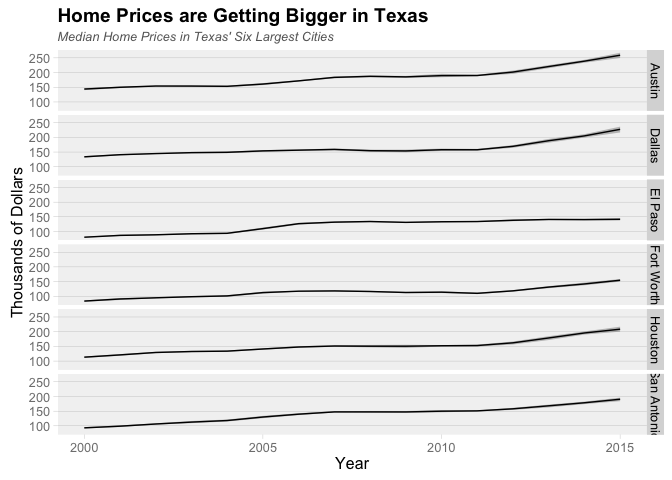
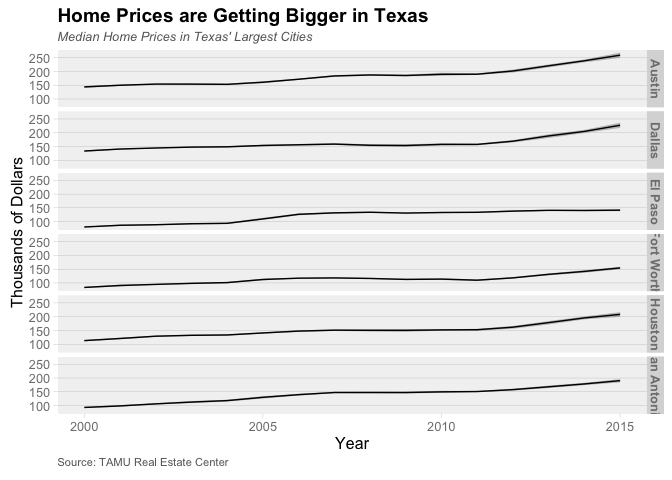
Removed theme_bdc_simplefacets

diff --git a/README.md b/README.md
@@ -44,7 +44,8 @@ black text on a grey background.
 ![](figure/theme_bdc_grey-1.png)
 
 Subtle grid lines can be added to the panels with the `grid.x` and
-`grid.y` parameters.
+`grid.y` parameters. These also affect minor grid lines, which can
+further be controlled with the `gridmin.x` and `gridmin.y` parameters.
 
     midwest$inmetro <- factor(midwest$inmetro, levels = c(0, 1),
                               labels = c("Rural", "Metro"))
@@ -55,8 +56,9 @@ Subtle grid lines can be added to the panels with the `grid.x` and
         stat_summary(fun.y = "mean", geom = "point") +
         scale_color_hue(name = "State") +
         scale_shape_discrete(name = "State") +
-        labs(x = NULL, y = "Percent of Population",
-             title = "Poverty in the Midwest") +
+        labs(x = NULL, y = "Percent",
+             title = "Poverty in the Midwest",
+             subtitle = "Poverty rates in rural and metro communities") +
         coord_equal(ratio = 0.5) +
         theme_bdc_grey(ticks.x = FALSE, grid.y = TRUE)
 
@@ -66,27 +68,39 @@ Some people prefer to display categorical data without tick marks along
 the axis. These are included by default, but can be removed by setting
 either the `ticks.x` or `ticks.y` parameters to `FALSE`.
 
-### theme\_bdc\_simplefacets
+We can also use facets to divide the data by state:
 
-`theme_bdc_simplefacets` is a modification of `theme_bdc_grey` where
-facet labels are displayed as grey text on a white background.
+    ggplot(data = midwest, aes(x = inmetro, y = percbelowpoverty)) +
+        facet_grid(. ~ state) +
+        stat_summary(fun.y = "mean", geom = "line", aes(group = state)) +
+        stat_summary(fun.y = "mean", geom = "point") +
+        scale_color_hue(name = "State") +
+        scale_shape_discrete(name = "State") +
+        labs(x = NULL, y = "Percent",
+             title = "Poverty in the Midwest",
+             subtitle = "Poverty rates in rural and metro communities") +
+        coord_equal(ratio = 0.5) +
+        theme_bdc_grey(grid.y = TRUE)
+
+![](figure/theme_bdc_grey-facets1-1.png)
 
     txcities <- txhousing %>%
         filter(city %in% c("Austin", "Dallas", "El Paso", "Fort Worth", "Houston",
                            "San Antonio"))
 
-    ggplot(data = txcities, aes(x = year, y = median / 1000)) +
+    pTX <- ggplot(data = txcities, aes(x = year, y = median / 1000)) +
         facet_grid(city ~ .) +
         stat_summary(fun.data = "mean_cl_boot", geom = "ribbon",
                      color = NA, alpha = 0.3) +
         stat_summary(fun.y = "mean", geom = "line") +
         labs(x = "Year", y = "Thousands of Dollars",
-             title = "Home Prices on the Rise",
-             subtitle = "Median Home Prices in Texas' Six Largest Cities",
-             caption = "Source: TAMU Real Estate Center") +
-        theme_bdc_simplefacets()
+             title = "Home Prices are Getting Bigger in Texas",
+             subtitle = "Median Home Prices in Texas' Largest Cities",
+             caption = "Source: TAMU Real Estate Center")
 
-![](figure/theme_bdc_simplefacets-1.png)
+    pTX + theme_bdc_grey()
+
+![](figure/theme_bdc_grey-facets2-1.png)
 
 ### theme\_bdc\_paneled
 
@@ -97,29 +111,9 @@ plan black text. Subtle grid lines can be added to the panels with the
 `ticks.x` and `ticks.y`. By default, grid lines are used along the Y
 axis. This theme is best suited for plots with multiple facets.
 
-    ggplot(data = txcities, aes(x = year, y = median / 1000)) +
-        facet_grid(city ~ .) +
-        stat_summary(fun.data = "mean_cl_boot", geom = "ribbon",
-                     color = NA, alpha = 0.3) +
-        stat_summary(fun.y = "mean", geom = "line") +
-        labs(x = "Year", y = "Thousands of Dollars",
-             title = "Home Prices are Getting Bigger in Texas",
-             subtitle = "Median Home Prices in Texas' Six Largest Cities") +
-        theme_bdc_paneled()
+    pTX + theme_bdc_paneled()
 
 ![](figure/theme_bdc_paneled-1.png)
-
-To more clearly distinguish the individual panels, thick lines can be
-added on the far right of each panel. For example:
-
-    # TODO: update me
-    ggplot(movies, aes(x = year, y = budget / 1000000, color = rating)) +
-        geom_point() +
-        facet_grid(mpaa ~ .) +
-        labs(x="Year", y="Budget ($ Millions)",
-             title="Hollywood Budgets Against Time") +
-        geom_vline(aes(xintercept = Inf), color = "grey40", size = 3) +
-        theme_bdc_paneled()
 
 ### theme\_bdc\_microtiter
 
@@ -170,9 +164,9 @@ We can also show multiple population states:
 
 ![](figure/theme_bdc_lattice_population-facets-1.png)
 
-Alternatively, this is a great opportunity to create an animation. We
-can use [gganimate](https://github.com/dgrtwo/gganimate) to create an
-animated GIF showing the population for the first 10 time steps.
+This is also a great opportunity to create an animation. We can use
+[gganimate](https://github.com/dgrtwo/gganimate) to create an animated
+GIF showing the population for the first 10 time steps.
 
     library(gganimate)
 

diff --git a/NEWS.md b/NEWS.md
@@ -3,6 +3,7 @@
 * Updated `theme_bdc_grey`
     * Works properly with ggplot2
     * Added support for subtitle and caption
+    * Merged in facet strip formatting from `theme_bdc_simplefacets`
 * Updated `theme_bdc_microtiter`
     * Works properly with ggplot2
     * Added support for subtitle and caption
@@ -11,15 +12,13 @@
     * Added support for subtitle and caption
     * Added gganimate example
     * Now based on `ggplot2::theme_void`
-* Updated `theme_bdc_simplefacets`
-    * Works properly with ggplot2
-    * Added support for subtitle and caption
 * Updated `theme_bdc_paneled`
     * Works properly with ggplot2
     * Added support for subtitle and caption
 * Added `rockpaperscissors` data set, a spatial simulation of rock, paper, scissors
 * Removed `theme_bdc_black`
 * Removed `theme_bdc_simple`
+* Removed `theme_bdc_simplefacets`
 * Simplified `span` implementation
     * Added unit tests for span
 * TODO: remove movies data set from README examples
